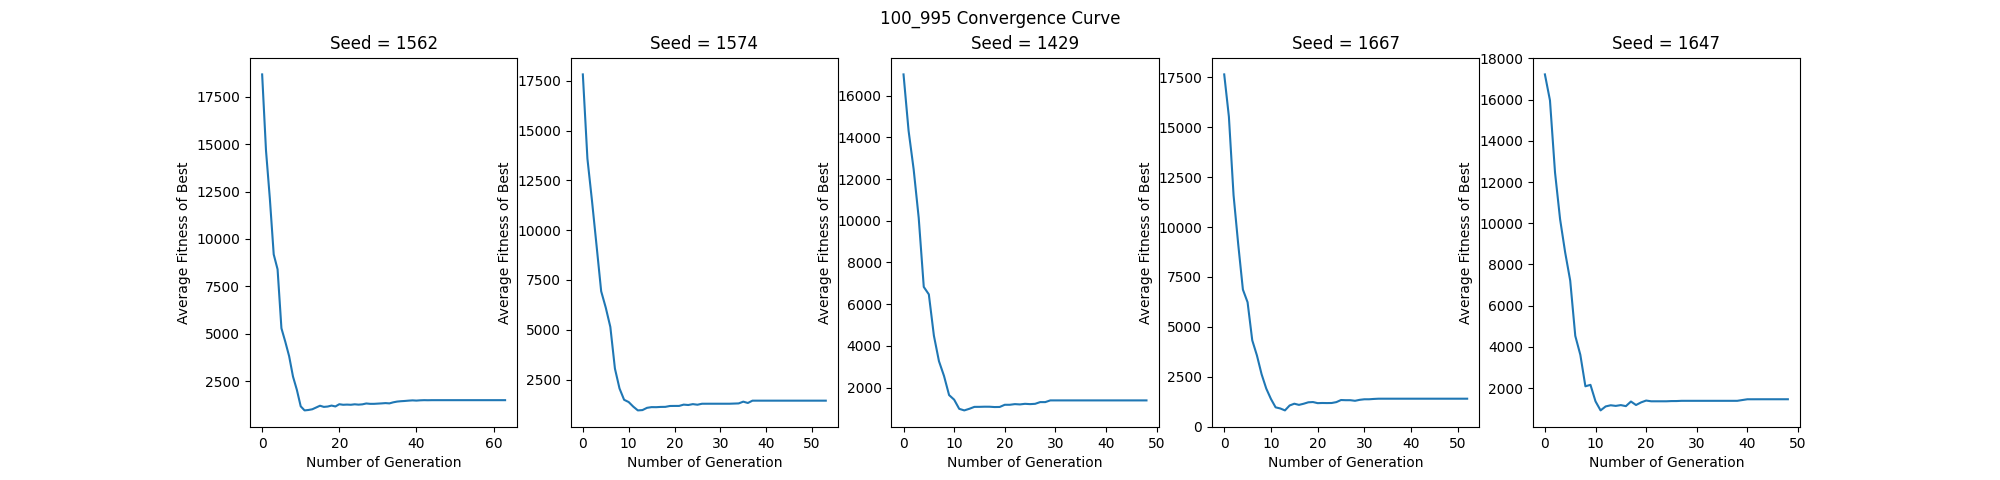
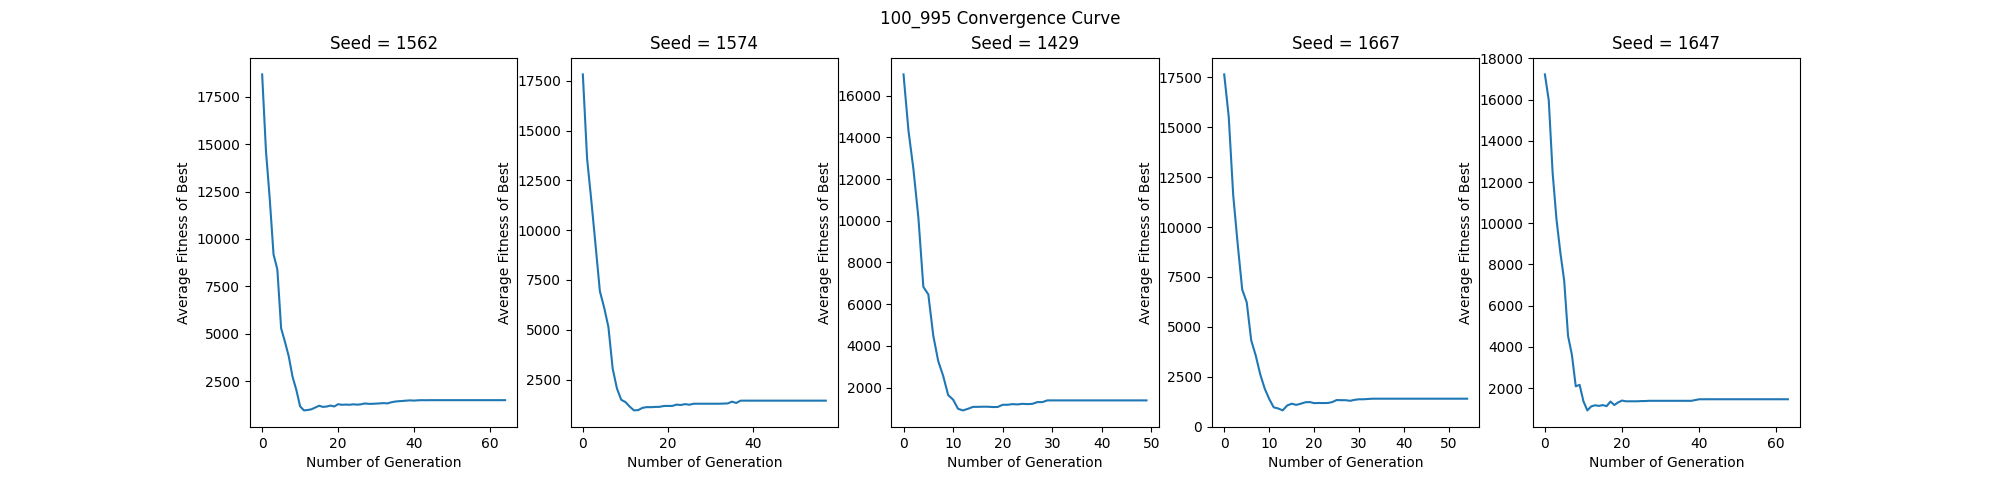
Reevaluted q2 results with convergence fix

diff --git a/ep_de_es_q1.py b/ep_de_es_q1.py
@@ -50,7 +50,7 @@ def tournament_sel(pop, select_num, opponents_num, fitness_func, rng):
 """
 Combination of Fast-EP and Improved-EP
 """
-def EP(fitness_func, feature_num, rng, min_x=-30, max_x=30, variance_range=6.0, variance_threshold=0.6, c=1.0, pop_size=50, max_iter=1000, max_convergence_iter = 20):
+def EP(fitness_func, feature_num, rng, min_x=-30, max_x=30, variance_range=6.0, variance_threshold=0.6, pop_size=50, max_iter=1000, max_convergence_iter = 20):
     warnings.filterwarnings("ignore")
     #variance_threshold_vector = np.full((feature_num,1), variance_threshold)
     pop_var = [ 
@@ -123,7 +123,7 @@ def run_EP(D, variance_range, variance_threshold, seeds, fitness_functions, fitn
 if __name__ == "__main__":
     #run EP
     D = 20
-    seeds = np.random.default_rng(seed=5).integers(low=0,high=200,size=30)
+    seeds = np.random.default_rng(seed=5).integers(low=0,high=200,size=3)
     fitness_functions = [rosenbrock , griewanks]
     fitness_functions_names = ['Rosenbrock','Griewanks']
 

diff --git a/report/report.tex b/report/report.tex
@@ -130,15 +130,15 @@ The average fitness of the best is calculated by using the best individuals in t
 		\hline
 		Seed & Number of iterations \\
 		\hline
-		1562 & 47 \\
+		1562 & 49 \\
 		\hline
-		1574 & 43 \\
+		1574 & 48 \\
 		\hline
-		1429 & 54 \\
+		1429 & 90 \\
 		\hline
-		1667 & 46 \\
+		1667 & 52 \\
 		\hline
-		1647 & 48 \\
+		1647 & 50 \\
 		\hline
 	\end{tabular}
 \end{center}
@@ -165,15 +165,15 @@ The average fitness of the best is calculated by using the best individuals in t
 		\hline
 		Seed & Number of iterations \\
 		\hline
-		1562 & 64 \\
+		1562 & 65 \\
 		\hline
-		1574 & 54 \\
+		1574 & 58 \\
 		\hline
-		1429 & 49 \\
+		1429 & 50 \\
 		\hline
-		1667 & 53 \\
+		1667 & 55 \\
 		\hline
-		1647 & 49 \\
+		1647 & 64 \\
 		\hline
 	\end{tabular}
 \end{center}
